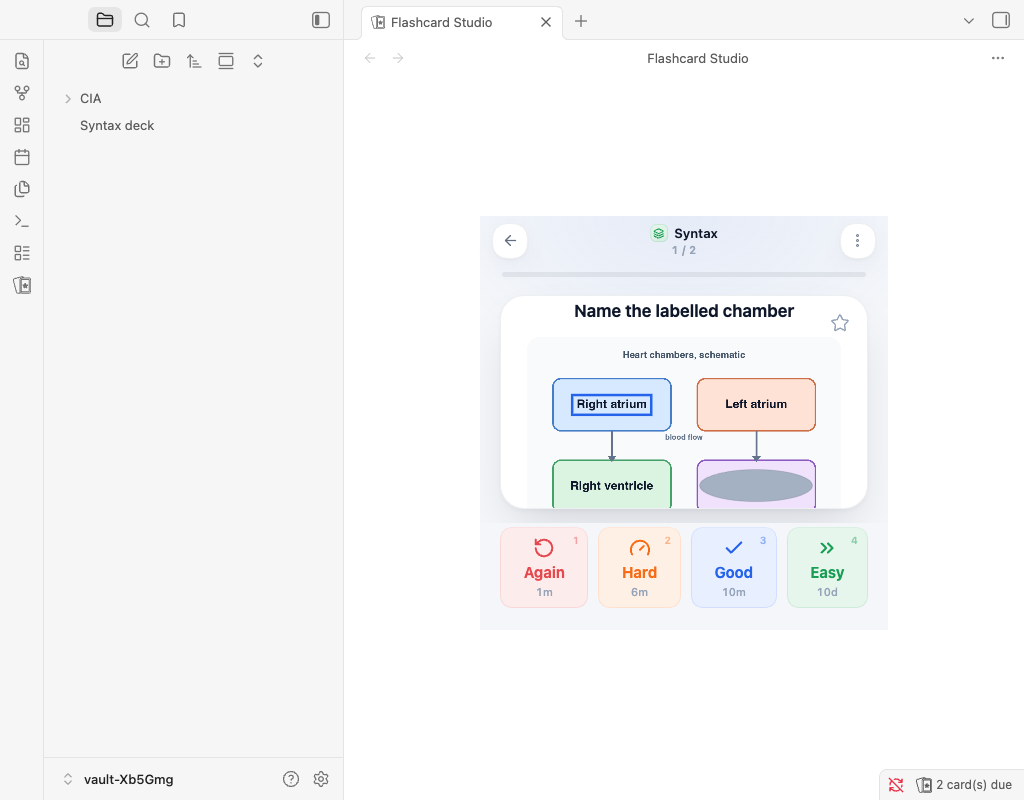
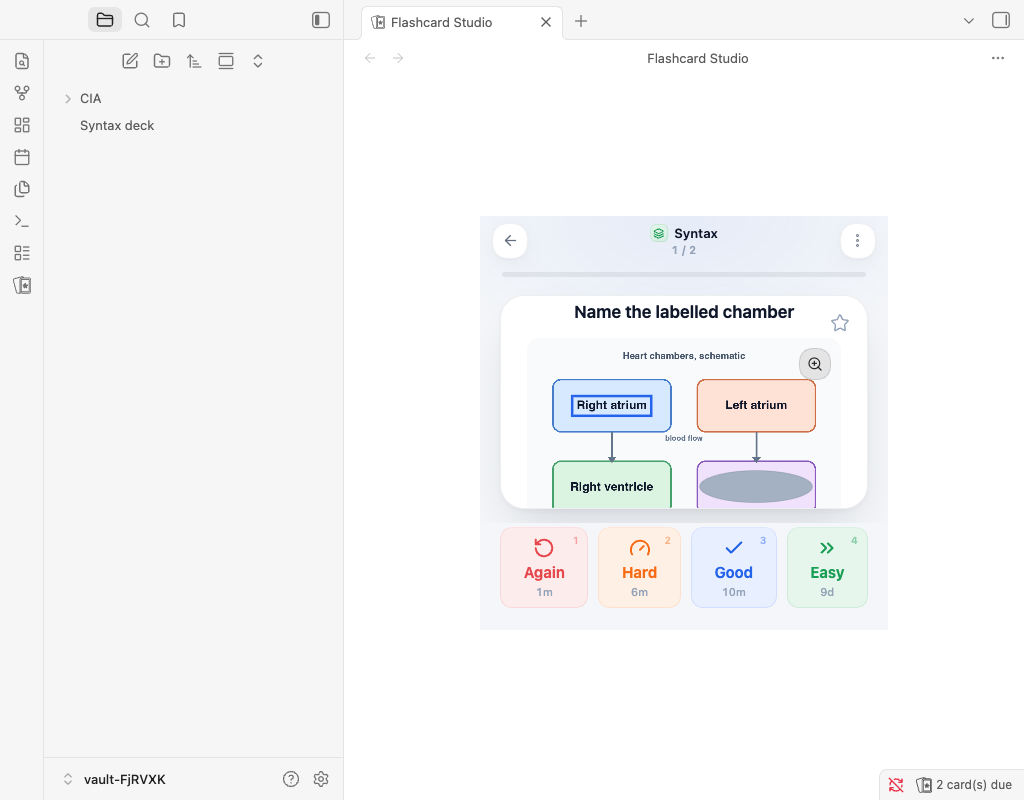
fix: a click on the occlusion picture shows the answer, zoom is on the back
On the front a click or a tap on the picture is a click on the card, which shows
the answer, like on every other card. The picture zooms only on the back, by a
click or a tap on it or by the zoom button in its corner, which is always shown
so that the zoom is found. Space and Show answer are unchanged.

Claude-Session: https://claude.ai/code/session_017yaBeUdrJ2saXapsMcmqyG

diff --git a/tests/e2e/specs/occlusion.e2e.ts b/tests/e2e/specs/occlusion.e2e.ts
@@ -369,37 +369,17 @@ describe("image occlusion", function () {
         await browser.keys("Escape");
         await browser.$(".modal.sr-card-info-modal").waitForExist({ reverse: true });
 
-        // A click or a tap on the picture zooms it, and is not a click on the card: the answer stays hidden. Zoomed, the
-        // picture is larger but never more than twice its own width, and the mask is still in view
-        {
-            const stage = ".sr-view .sr-card-container .fs-occ-stage";
-            const widthOf = () =>
-                browser.execute(
-                    (sel: string) =>
-                        document.querySelector(sel)?.getBoundingClientRect().width ?? 0,
-                    stage,
-                );
-            const before = await widthOf();
-            await browser.$(`${stage} .fs-occ-image`).click();
-            await browser.waitUntil(async () =>
-                ((await browser.$(stage).getAttribute("class")) ?? "").includes("is-zoomed"),
-            );
-            await browser.pause(200);
-            expect((await shownCard()).classes).toContain("is-front");
-            const zoomed = await widthOf();
-            expect(zoomed).toBeGreaterThan(before + 10);
-            expect(zoomed).toBeLessThanOrEqual(2000 + 1);
-            await expectMaskInView();
-            await browser.$(`${stage} .fs-occ-image`).click();
-            await browser.waitUntil(
-                async () =>
-                    !((await browser.$(stage).getAttribute("class")) ?? "").includes("is-zoomed"),
-            );
-            await expectMaskInView();
-        }
+        // On the front there is no zoom: a click or a tap on the picture is a click on the card, which shows the answer,
+        // like a click on any other card (Space and the Show answer button do the same). The picture has no zoom button.
+        expect(await browser.$(".sr-view .sr-card-container .fs-occ-zoom").isExisting()).toBe(
+            false,
+        );
 
-        // Back: the same picture once, the mask outlined, its label in it and under the picture
-        await showAnswer();
+        // Back: the same picture once, the mask outlined, its label under the picture
+        await browser.$(".sr-view .sr-card-container .fs-occ-image").click();
+        await browser.$(".sr-view .sr-card-container .sr-easy-button").waitForClickable({
+            timeoutMsg: "a click on the picture did not show the answer",
+        });
         await picturesLoaded(".sr-view .sr-card-container .fs-occ-image");
         card = await shownCard();
         expect(card.classes).toContain("is-back");
@@ -428,6 +408,46 @@ describe("image occlusion", function () {
             await screenshot("occlusion-back", light);
         }
         await setTheme(false);
+
+        // On the back a click or a tap on the picture, or on the button in its corner, zooms it: it is discoverable, and
+        // the answer is already shown. Zoomed, the picture is larger but never more than twice its own width, and the
+        // mask is still in view
+        {
+            const card = ".sr-view .sr-card-container";
+            const stage = `${card} .fs-occ-stage`;
+            const button = browser.$(`${card} .fs-occ-zoom`);
+            expect(await button.getAttribute("aria-label")).toBe("Zoom in");
+            const widthOf = () =>
+                browser.execute(
+                    (sel: string) =>
+                        document.querySelector(sel)?.getBoundingClientRect().width ?? 0,
+                    stage,
+                );
+            const isZoomed = async () =>
+                ((await browser.$(stage).getAttribute("class")) ?? "").includes("is-zoomed");
+            const before = await widthOf();
+
+            await button.click();
+            await browser.waitUntil(isZoomed);
+            await browser.pause(200);
+            const zoomed = await widthOf();
+            expect(zoomed).toBeGreaterThan(before + 10);
+            expect(zoomed).toBeLessThanOrEqual(2000 + 1);
+            expect(await button.getAttribute("aria-label")).toBe("Zoom out");
+            expect((await shownCard()).classes).toContain("is-back");
+            await expectMaskInView();
+
+            // The picture zooms out again when it is clicked, and in again
+            await browser.$(`${stage} .fs-occ-image`).click();
+            await browser.waitUntil(async () => !(await isZoomed()));
+            expect(await button.getAttribute("aria-label")).toBe("Zoom in");
+            await expectMaskInView();
+            await browser.$(`${stage} .fs-occ-image`).click();
+            await browser.waitUntil(isZoomed);
+            await button.click();
+            await browser.waitUntil(async () => !(await isZoomed()));
+            await expectMaskInView();
+        }
         await answerEasy();
 
         // The second card is about the other mask, an ellipse, and its label is Markdown

diff --git a/src/occlusion/occlusion-view.ts b/src/occlusion/occlusion-view.ts
@@ -1,4 +1,4 @@
-import { App, Component, MarkdownRenderer, Platform, TFile } from "obsidian";
+import { App, Component, MarkdownRenderer, Platform, setIcon, TFile } from "obsidian";
 
 import { t } from "src/lang/helpers";
 import {
@@ -212,7 +212,9 @@ export function renderOcclusion(
         return null;
     }
 
-    const scroller = el.createDiv({ cls: "fs-occ-scroll" });
+    // The frame holds the zoom button, which stays in the corner while the zoomed picture scrolls in the box inside it
+    const frame = el.createDiv({ cls: "fs-occ-frame" });
+    const scroller = frame.createDiv({ cls: "fs-occ-scroll" });
     const stage = scroller.createDiv({ cls: "fs-occ-stage" });
     const img = stage.createEl("img", {
         cls: "fs-occ-image",
@@ -279,14 +281,33 @@ export function renderOcclusion(
         if (img.complete) later();
     }
 
-    // A click or a tap on the picture of a card zooms it (on a phone also in a note, where the picture is small). It is
-    // not a click on the card, which would show the answer: the answer button and the key are still there.
-    if (card || Platform.isMobile) {
-        img.addEventListener("click", (event) => {
+    // On the back of a card, a click or a tap on the picture, or on the button in its corner, zooms it. It is not a click
+    // on the card, which has nothing more to show. On the front there is no zoom: a click or a tap on the picture is a
+    // click on the card, which shows the answer, as on every other card. In a note, on a phone, the picture zooms too.
+    const zoomable = revealed >= 0 || (!card && Platform.isMobile);
+    if (zoomable) {
+        const button =
+            revealed >= 0
+                ? frame.createEl("button", { cls: "fs-occ-zoom", attr: { type: "button" } })
+                : null;
+        const showZoom = () => {
+            if (button === null) return;
+            const zoomed = stage.hasClass("is-zoomed");
+            setIcon(button, zoomed ? "zoom-out" : "zoom-in");
+            button.setAttribute(
+                "aria-label",
+                t(zoomed ? "OCCLUSION_ZOOM_OUT" : "OCCLUSION_ZOOM_IN"),
+            );
+        };
+        const toggleZoom = (event: Event) => {
             event.stopPropagation();
             stage.toggleClass("is-zoomed", !stage.hasClass("is-zoomed"));
+            showZoom();
             if (card) el.win.requestAnimationFrame(scroll);
-        });
+        };
+        showZoom();
+        button?.addEventListener("click", toggleZoom);
+        img.addEventListener("click", toggleZoom);
     }
 
     addAnswer();

diff --git a/src/occlusion/occlusion.css b/src/occlusion/occlusion.css
@@ -79,14 +79,17 @@
     width: min(180%, calc(2 * var(--fs-occ-natural, 100%)));
 }
 
-.fs-occ.is-front .fs-occ-image,
+/* Only the back zooms: on the front a click on the picture shows the answer, like a click on any card */
 .fs-occ.is-back .fs-occ-image {
     cursor: zoom-in;
 }
 
-.fs-occ.is-front .is-zoomed .fs-occ-image,
 .fs-occ.is-back .is-zoomed .fs-occ-image {
     cursor: zoom-out;
+}
+
+.fs-occ-frame {
+    position: relative;
 }
 
 .fs-occ-image {
@@ -210,8 +213,9 @@
     background-color: var(--fs-red-soft);
 }
 
-/* The pencil that opens the editor, on the note's own view */
-.fs-occ-edit {
+/* The pencil that opens the editor, on the note's own view, and the zoom button in the corner of a card's back */
+.fs-occ-edit,
+.fs-occ-zoom {
     position: absolute;
     top: 10px;
     right: 10px;
@@ -228,13 +232,18 @@
     background-color: color-mix(in srgb, var(--fs-surface) 92%, transparent);
     box-shadow: var(--fs-shadow);
     cursor: pointer;
-    opacity: 0;
     transition:
         opacity 0.15s ease,
         color 0.15s ease;
 }
 
-.fs-occ-edit svg {
+/* The pencil shows on hover, and always where there is no hover; the zoom button is always there, so it is found */
+.fs-occ-edit {
+    opacity: 0;
+}
+
+.fs-occ-edit svg,
+.fs-occ-zoom svg {
     width: 16px;
     height: 16px;
 }
@@ -244,7 +253,8 @@
     opacity: 1;
 }
 
-.fs-occ-edit:hover {
+.fs-occ-edit:hover,
+.fs-occ-zoom:hover {
     color: var(--fs-accent);
 }
 

diff --git a/styles.css b/styles.css
@@ -488,13 +488,14 @@ body.sr-reduced-bottom-fade-mask {
 .fs-occ.is-back .fs-occ-stage.is-zoomed {
   width: min(180%, calc(2 * var(--fs-occ-natural, 100%)));
 }
-.fs-occ.is-front .fs-occ-image,
 .fs-occ.is-back .fs-occ-image {
   cursor: zoom-in;
 }
-.fs-occ.is-front .is-zoomed .fs-occ-image,
 .fs-occ.is-back .is-zoomed .fs-occ-image {
   cursor: zoom-out;
+}
+.fs-occ-frame {
+  position: relative;
 }
 .fs-occ-image {
   display: block;
@@ -595,7 +596,8 @@ body.sr-reduced-bottom-fade-mask {
   color: var(--fs-red);
   background-color: var(--fs-red-soft);
 }
-.fs-occ-edit {
+.fs-occ-edit,
+.fs-occ-zoom {
   position: absolute;
   top: 10px;
   right: 10px;
@@ -612,12 +614,15 @@ body.sr-reduced-bottom-fade-mask {
   background-color: color-mix(in srgb, var(--fs-surface) 92%, transparent);
   box-shadow: var(--fs-shadow);
   cursor: pointer;
-  opacity: 0;
   transition:
     opacity 0.15s ease,
     color 0.15s ease;
 }
-.fs-occ-edit svg {
+.fs-occ-edit {
+  opacity: 0;
+}
+.fs-occ-edit svg,
+.fs-occ-zoom svg {
   width: 16px;
   height: 16px;
 }
@@ -625,7 +630,8 @@ body.sr-reduced-bottom-fade-mask {
 .fs-occ-edit:focus-visible {
   opacity: 1;
 }
-.fs-occ-edit:hover {
+.fs-occ-edit:hover,
+.fs-occ-zoom:hover {
   color: var(--fs-accent);
 }
 @media (hover: none) {

diff --git a/src/lang/locale/en.ts b/src/lang/locale/en.ts
@@ -903,6 +903,8 @@ const en: IBaseLocale = {
     OCCLUSION_SAVE_FAILED: "The block could not be saved.",
     OCCLUSION_BLOCK_AMBIGUOUS:
         "The note has this block more than once, so it cannot tell which one to change. Nothing was changed.",
+    OCCLUSION_ZOOM_IN: "Zoom in",
+    OCCLUSION_ZOOM_OUT: "Zoom out",
     OCCLUSION_NEEDS_MASK: "Draw at least one mask first.",
     OCCLUSION_BLOCK_NOT_FOUND: "The block was not found in the note. Open the note and try again.",
     // Design: statistics

diff --git a/src/lang/base-locale.ts b/src/lang/base-locale.ts
@@ -782,6 +782,8 @@ export interface IBaseLocale {
     OCCLUSION_HINT_LOCKED: string;
     OCCLUSION_SAVE_FAILED: string;
     OCCLUSION_BLOCK_AMBIGUOUS: string;
+    OCCLUSION_ZOOM_IN: string;
+    OCCLUSION_ZOOM_OUT: string;
     OCCLUSION_NEEDS_MASK: string;
     OCCLUSION_BLOCK_NOT_FOUND: string;
     // Design: statistics

diff --git a/README.md b/README.md
@@ -103,7 +103,7 @@ mask: b2 ellipse 0.5500 0.2200 0.1400 0.0800 |
 
 - Every mask is one card. Coordinates are fractions of the picture, so the masks fit it at any size.
 - **Hide all, guess one** (the default) draws every mask and asks about one at a time, as Anki does. **Hide one, guess one** draws only the mask that is asked about.
-- On the front the mask that is asked about is filled and the others are grey. On the back it turns into an outline, and its answer is shown under the picture. The picture is as wide as the card, so what is written on it can be read, and the card scrolls to the mask that is asked about. Click or tap the picture to zoom.
+- On the front the mask that is asked about is filled and the others are grey. On the back it turns into an outline, and its answer is shown under the picture. The picture is as wide as the card, so what is written on it can be read, and the card scrolls to the mask that is asked about. On the back, click or tap the picture, or the magnifier in its corner, to zoom. On the front a click or tap on the picture shows the answer, like any card.
 - The schedules of the masks share one `<!--SR:...-->` comment after the block, like the deck of a cloze card. Editing a block in the editor moves each schedule with its mask: delete a mask and the others keep theirs, and a new mask starts as a new card.
 - In a note, the block shows the picture with every answer on its mask and a pencil that reopens the editor. The original Spaced Repetition plugin sees a code block and no card.
 - **Edit masks in the editor, not by hand, once a block has been reviewed.** Schedules follow the masks by their position in the block. The editor moves each schedule with its mask. If you delete or break a `mask:` line in the text, the schedules that come after it move onto the wrong masks. A block that has no image, or no mask that reads, is not a card, and its schedule comment is left as it is.

diff --git a/CHANGELOG.md b/CHANGELOG.md
@@ -9,7 +9,7 @@ Changes made before the fork are in the [Spaced Repetition changelog](docs/docs/
 
 **Cards**
 
-- Image occlusion: hide parts of a picture and guess what is under them. **Add image occlusion** (command palette and editor menu) opens an editor where you draw rectangles and ellipses with a mouse or a finger, move and resize them, and give each one an answer. The result is a fenced `image-occlusion` block in the note, one card per mask, with one schedule comment after it. Editing the block keeps each mask's schedule with its mask. Hide all or hide one, a picture as wide as the card that scrolls to the mask being asked about, click or tap to zoom, and the block in a note shows every answer on its mask with a button to edit it. **Edit card** in the study screen opens the editor with the masks locked. The original Spaced Repetition plugin sees a code block and no card.
+- Image occlusion: hide parts of a picture and guess what is under them. **Add image occlusion** (command palette and editor menu) opens an editor where you draw rectangles and ellipses with a mouse or a finger, move and resize them, and give each one an answer. The result is a fenced `image-occlusion` block in the note, one card per mask, with one schedule comment after it. Editing the block keeps each mask's schedule with its mask. Hide all or hide one, a picture as wide as the card that scrolls to the mask being asked about, zoom on the back (click, tap or the corner button), and the block in a note shows every answer on its mask with a button to edit it. **Edit card** in the study screen opens the editor with the masks locked. The original Spaced Repetition plugin sees a code block and no card.
 - Anki export writes an image occlusion card as one basic note per mask, with the question and the whole picture on the front and the answer on the back. The masks are not drawn there.
 
 ## [0.9.0] - 2026-09-29
